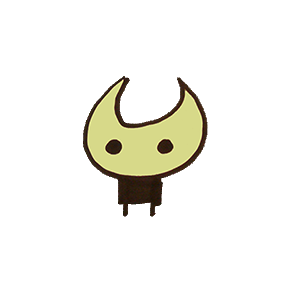
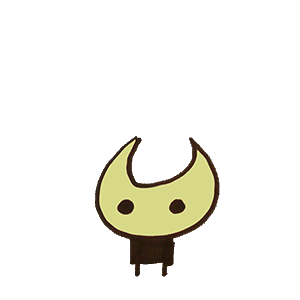
Images are loaded at random
Will add clicking, upgrades and saving tomorrow

Changed region(s): [[0.27, 0.24, 0.75, 0.93]]

diff --git a/js/script.js b/js/script.js
@@ -10,24 +10,28 @@
             this.num = num;
         };
 
-    var Guard = function (name, type, ally) {
+    var Guard = function (name, type, ally, hp) {
             this.name = name;
             this.type = type;
             this.ally = ally;
+            this.hp = hp;
         };
 
-    var Boss = function (name, type) {
+    var Boss = function (name, type, hp) {
         this.name = name;
         this.type = type;
+        this.hp = hp;
     };
 
-    var Areas = function (name, fileName, type, mobs, guards, boss) {
+    var Areas = function (name, fileName, type, mobs, guards, boss, hpHigh, hpLow) {
         this.name = name;
         this.fileName = fileName;
         this.type = type;
         this.mobs = mobs;
         this.guards = guards;
         this.boss = boss;
+        this.hpHigh = hpHigh;
+        this.hpLow = hpLow;
     };
 
     //Lets make a bunch of mobs!
@@ -40,12 +44,44 @@
         lignums = new Mob('Lignums', 'normal', true, '07');
 
     //Guard time!
-    var hrad = new Guard("H'rad", 'normal', true, '01');
+    var hrad = new Guard("H'rad", 'normal', true, '01', 600);
 
     //And the bosses
-    var beardyBoss = new Boss('Beardy Boss', 'normal', true, '01');
+    var beardyBoss = new Boss('Beardy Boss', 'normal', true, '01', 2000);
 
-    var startingArea = new Areas('Starting Area', 'area1', 'normal', [moonFace, gutsy, balloon, afro, swirley, siggy, lignums], [hrad], beardyBoss);
+    var startingArea = new Areas('Starting Area', 'area1', 'normal', [moonFace, gutsy, balloon, afro, swirley, siggy, lignums], [hrad], beardyBoss, 10, 30);
 
     var areas = [startingArea];
+
+    //variables to use later in functions:
+    var targetMob, hpValue;
+
+    //here I'll declare (future) upgrades)
+    var henchman = 0.1;
+
+    var save = {
+        currentArea: startingArea,
+        alies: [],
+        upgradesHenchman: 0,
+        tinySouls: 0
+
+    };
+
+    var getId = function(id) {
+        return document.getElementById(id);
+    };
+
+    //lets generate a random mob to beat u- err, free~
+
+    var newMob = function() {
+        //pick a random normal mob
+        targetMob = save.currentArea.mobs[Math.floor(Math.random() * save.currentArea.mobs.length)];
+        hpValue = Math.floor(Math.random() * (save.currentArea.hpHigh - save.currentArea.hpLow) + save.currentArea.hpLow);
+        //wijs de max en value to aan de HTML elementen
+        //had een probleem met innerText in Firefox, vervangen door innerHTML, bron: http://stackoverflow.com/questions/1359469/innertext-works-in-ie-but-not-in-firefox
+        getId("mob").src = "img/mobs/" + save.currentArea.fileName + "_" + targetMob.num + "_mob.png";
+    };
+
+    newMob();
+
 }());

diff --git a/css/style.css b/css/style.css
@@ -13,8 +13,11 @@ body {
 	margin-bottom: 2em;
 }
 
-.mob{
-	margin-bottom: 2em;
+#mob{
+	width:100%;
+	height:auto;
+	cursor: pointer;
+	top:10px;
 }
 
 .page-content h1{
@@ -24,3 +27,76 @@ body {
 .page-content .row {
 	margin-bottom: 2em;
 }
+
+.img_container{
+	background-color: white;
+	border: 1em solid #555152;	
+		margin-bottom: 2em;
+	width: 19.6em;
+	height: 19.6em;
+	overflow: hidden;
+}
+
+
+
+@keyframes floating {
+  0% {
+   transform:translateY(-0.2em);
+  }
+
+  45%{
+  	transform:translateY(-1.4em);
+  }
+
+  50% {
+    transform:translateY(-1.5em);
+  }
+
+  55% {
+  	transform:translateY(-1.4em);
+  }
+
+  100% {
+   transform:translateY(-0.2em);
+  }
+}
+
+@-webkit-keyframes floating {
+  0% {
+   transform:translateY(-2em);
+  }
+
+  45%{
+  	transform:translateY(-3.4em);
+  }
+
+  50% {
+    transform:translateY(-3.5em);
+  }
+
+  55% {
+  	transform:translateY(-3.4em);
+  }
+
+  100% {
+   transform:translateY(-2em);
+  }
+}
+
+
+.floating{
+	-moz-animation-duration: 5000ms;
+	-moz-animation-iteration-count:infinite;
+	-moz-animation-play-state:running;
+	-moz-animation-name:floating;
+
+	-webkit-animation-duration: 3000ms;
+	-webkit-animation-iteration-count:infinite;
+	-webkit-animation-play-state:running;
+	-webkit-animation-name:floating;
+
+	animation-duration: 3000ms;
+	animation-iteration-count:infinite;
+	animation-play-state:running;
+	aninmation-name:floating;
+};

diff --git a/index.html b/index.html
@@ -27,11 +27,11 @@
         <div id="sidebar-wrapper">
             <img class='sidebar-brand' src="logo.png"/>  
             <h1>Tiny Soul</h1>  
-
-            <img src="" class="mob" /> 
-
-            <p>Tiny Souls Collected:</p>
-            <span id="soulsCollected"  > </span>
+            <div class="img_container">
+                <img src="" id="mob" class="floating"/> 
+            </div>
+            <p>Tiny Souls Collected: <span id="soulsCollected">0</span></p>
+            
         </div>
 
         <!-- Page content -->
@@ -68,6 +68,12 @@
                     <h1> Your Allies </h1>
                     <div class="col-md-12" id="allies">
                         Here we could have the allies run around?
+                    </div>
+                </div>
+                 <div class="row">
+                    <h1> Map </h1>
+                    <div class="col-md-12" id="allies">
+                        Maybe a map, or just a list of places to beat up souls
                     </div>
                 </div>
             </div>
